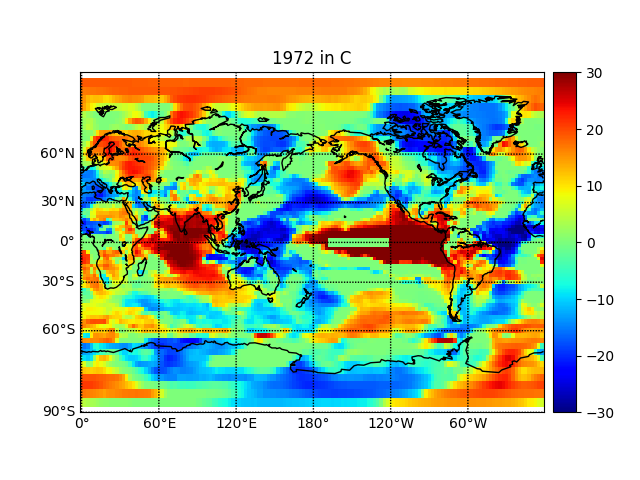
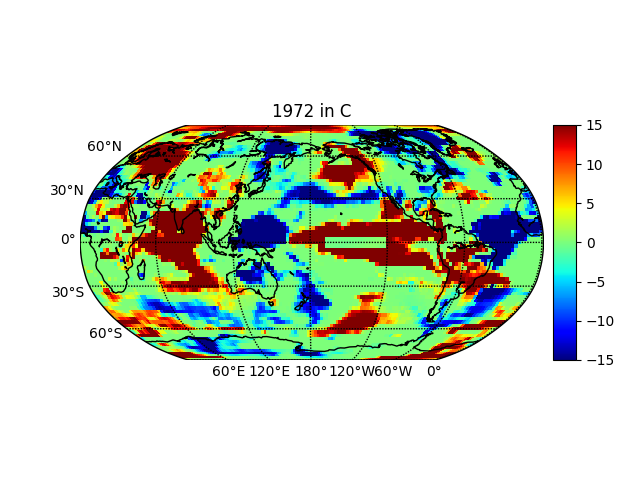
Updated offset sliding with negatives

diff --git a/utils.py b/utils.py
@@ -30,7 +30,7 @@ def read_air_data(year, latlon=True):
     return T
 
 
-def _avoid_seasonality(T, start_year, end_year, yearly_seasonal=False):
+def avoid_seasonality(T):
     """
     Remove the effect of seasonality on the measurements.
     """
@@ -50,7 +50,17 @@ def _avoid_seasonality(T, start_year, end_year, yearly_seasonal=False):
     return T
 
 
-def _find_inside_indices(lat, lon, x0, x1, y0, y1):
+def find_start_date(day, month):
+    """
+    Return the ordinal number of a date in a year.
+    """
+    days = np.array([0,31,28,31,30,31,30,31,31,30,31,30])
+    startdate = np.sum(days[:month]) + day
+
+    return startdate
+
+
+def find_inside_indices(lat, lon, x0, x1, y0, y1):
     """
     Find indices for points inside a "rectangular" region on the globe.
     """
@@ -91,7 +101,7 @@ def separate_regions(T, lat, lon, x0, x1, y0, y1):
     """
 
     # find regional indices
-    lat_in, lon_in = _find_inside_indices(lat, lon, x0, x1, y0, y1)
+    lat_in, lon_in = find_inside_indices(lat, lon, x0, x1, y0, y1)
     
     # compute total number of nodes and number of inside nodes
     nodecount = np.size(lat) * np.size(lon)
@@ -155,7 +165,7 @@ def get_data(start_year, end_year):
             T = T[:-1,:,:]
 
     # standardise data
-    T = _avoid_seasonality(T, start_year, end_year)
+    T = avoid_seasonality(T)
 
     return T, lat, lon
 
@@ -185,6 +195,7 @@ def pearson_coeffs(x, y):
         / (x.std(axis=1).reshape([n,1]) * y.std(axis=1))
     )
 
+
 def maximod(x, axis=None):
     """
     Find the maximal modulus inside an array.
@@ -192,6 +203,7 @@ def maximod(x, axis=None):
     pos = np.max(x, axis=axis)
     neg = np.min(x, axis=axis)
     return pos * (pos > -neg) + neg * (pos < -neg)
+
 
 def comp_c(T_in, T_out, tau_max=200):
     """
@@ -204,25 +216,25 @@ def comp_c(T_in, T_out, tau_max=200):
     days = 365
 
     # temporary array holding corrcoefs for all offsets
-    temp = np.empty([n,m,tau_max+1])
-    t_in = T_in[:,:days]
+    temp = np.empty([n,m,2*tau_max+1])
+    t_in = T_in[:,tau_max:tau_max+days]
 
     # iterate through all offsets
-    for tau in range(tau_max+1):
+    for tau in range(-tau_max, tau_max+1):
         if not tau % 50:
             print("Tau:", tau)
         # set offset window for outside nodes
-        t_out = T_out[:,tau:days+tau]
+        t_out = T_out[:,tau_max+tau:tau_max+days+tau]
 
         # append corrcoefs for specific offset
-        temp[:,:,tau] = pearson_coeffs(t_in, t_out)
+        temp[:,:,tau_max+tau] = pearson_coeffs(t_in, t_out)
 
     C = np.empty([n,m,4])
 
     # theta_i,j
-    C[:,:,1] = np.argmax(np.abs(temp), axis=2)
+    C[:,:,1] = np.argmax(np.abs(temp), axis=2) - tau_max
     # C(theta_i,j)
-    C[:,:,0] = maximod(temp, axis=2) * (C[:,:,1] < 151)
+    C[:,:,0] = maximod(temp, axis=2) * (C[:,:,1] < 151) * (0 <= C[:,:,1])
     # mean over all theta
     C[:,:,2] = np.mean(temp, axis=2)
     # standard deviation over  all theta
@@ -231,20 +243,24 @@ def comp_c(T_in, T_out, tau_max=200):
     return C
 
 
-def year_series(T, lat, lon, year, start_year=1948):
+def year_series(
+        T, lat, lon, year, start_year=1948, window_day=1, window_month=7
+    ):
     """
     Compute `crosscorr` for a specific year window in the time series.
     """
 
-    # compute start date (1 July) index
-    start_date = (year-start_year) * 365 + 182
+    # compute start date (1 July by default) index
+    start_date = (
+        (year-start_year) * 365 + find_start_date(window_day, window_month)
+    )
 
     # compute end date index
     end_date = start_date + 565
 
     # split regions for this period
     T_in, T_out = separate_regions(
-        T[start_date:end_date,:,:], lat, lon, 190, 240, -5, 5
+        T[start_date-200:end_date,:,:], lat, lon, 190, 240, -5, 5
     )
 
     # compute various parameters

diff --git a/nino.py b/nino.py
@@ -44,7 +44,7 @@ def plot_data(lon, lat, data, min=None, max=None, name="plot", showplots=False):
     lon, lat = np.meshgrid(lon, lat)
     fig = plt.figure()
     plt.title(f"{name}")
-    map = Basemap(projection='mill',lon_0=178.75)
+    map = Basemap(projection='robin',lon_0=-178.75)
     map.pcolormesh(lon, lat, data, cmap="jet", latlon=True, vmin=min, vmax=max)
     map.drawcoastlines()
     map.drawparallels(np.arange(-90,90,30),labels=[1,0,0,0])
@@ -63,7 +63,7 @@ def run(years, showplots=False):
         print("Computing year", year,"...")
         C, T_in, T_out = year_series(T, lat, lon, year)
 
-        in_degree = np.sum((C[:,:,1] < 151), axis=0)
+        in_degree = np.sum((0<=C[:,:,1])*(C[:,:,1] < 151), axis=0)
 
 
         # plotting
@@ -76,9 +76,9 @@ def run(years, showplots=False):
             (C[:,:,0]-C[:,:,2])/C[:,:,3], axis=0
         )
 
-        plot_data(lon, lat, C_plot, min=-30, max=30, name=f"{year} in C", showplots=showplots)
+        plot_data(lon, lat, C_plot, min=-15, max=15, name=f"{year} in C", showplots=showplots)
         plot_data(lon, lat, N_plot, min=0, max=57, name=f"{year} in N", showplots=showplots)
-        plot_data(lon, lat, W_plot, min=-170, max=170, name=f"{year} in W", showplots=showplots)
+        plot_data(lon, lat, W_plot, min=-100, max=100, name=f"{year} in W", showplots=showplots)
     
     return
 
@@ -98,7 +98,7 @@ with open('temp_data_1948_2021.npy', 'rb') as f:
     lat = np.load(f)
     lon = np.load(f)
 
-run([1959, 1972])
+run([1959, 1972], showplots=True)
 
 ### total runtime: ~16s 
 ### (~0.5s for loading and ~15.5s for running over one period window)

diff --git a/tester.py b/tester.py
@@ -1,0 +1,63 @@
+import matplotlib.pyplot as plt
+import numpy as np
+from utils import *
+
+start_year = 1968
+end_year = 1978
+
+T, lat, lon = read_air_data(start_year)
+
+# remove possible gap day
+if not start_year % 4:
+    T = T[:-1,:,:]
+
+for year in range(start_year, end_year):
+
+    # append yearly data
+    T = np.append(T, read_air_data(year, latlon=False), axis=0)
+
+    # remove possible gap days
+    if not year % 4:
+        T = T[:-1,:,:]
+
+T0 = np.copy(T) # actual temperature measurements
+
+T1 = avoid_seasonality(T) # seasonality removed measurements
+
+tau_max=200
+year = 1972
+start_date = find_start_date(1, 7) + (year-start_year)*365
+end_date = start_date + 565
+
+T_in, T_out = separate_regions(
+    T1[start_date-200:end_date,:,:], lat, lon, 190, 240, -5, 5
+) # the in and out regions
+
+n, m = np.shape(T_in)[0], np.shape(T_out)[0]
+
+days = 365
+
+# temporary array holding corrcoefs for all offsets
+temp = np.empty([n,m,2*tau_max+1])
+t_in = T_in[:,tau_max:tau_max+days]
+
+# iterate through all offsets
+for tau in range(-tau_max, tau_max+1):
+    if not tau % 50:
+        print("Tau:", tau)
+    # set offset window for outside nodes
+    t_out = T_out[:,tau_max+tau:tau_max+days+tau]
+
+    # append corrcoefs for specific offset
+    temp[:,:,tau] = pearson_coeffs(t_in, t_out)
+
+C = np.empty([n,m,4])
+
+# theta_i,j
+C[:,:,1] = np.argmax(np.abs(temp), axis=2) - tau_max
+# C(theta_i,j)
+C[:,:,0] = maximod(temp, axis=2) * (C[:,:,1] < 151) * (0 <= C[:,:,1])
+# mean over all theta
+C[:,:,2] = np.mean(temp, axis=2)
+# standard deviation over  all theta
+C[:,:,3] = np.std(temp, axis=2)
